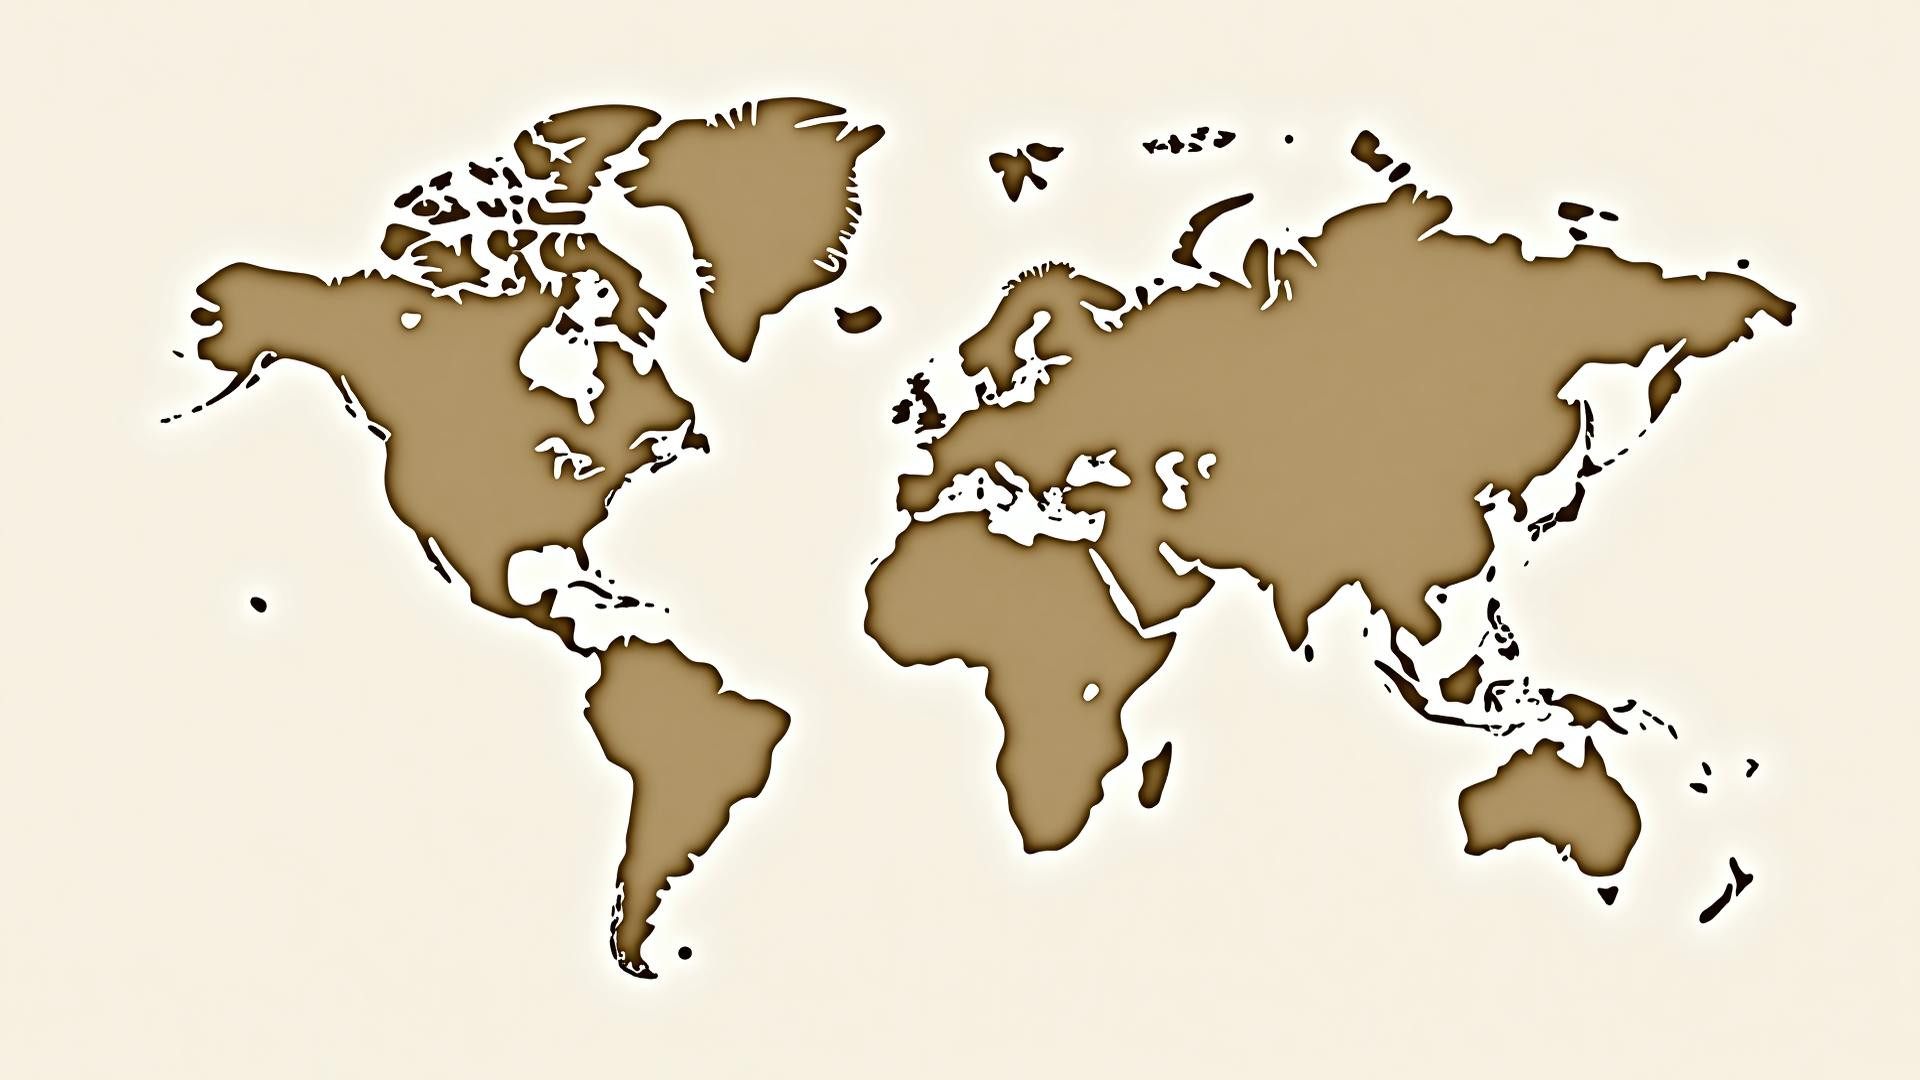
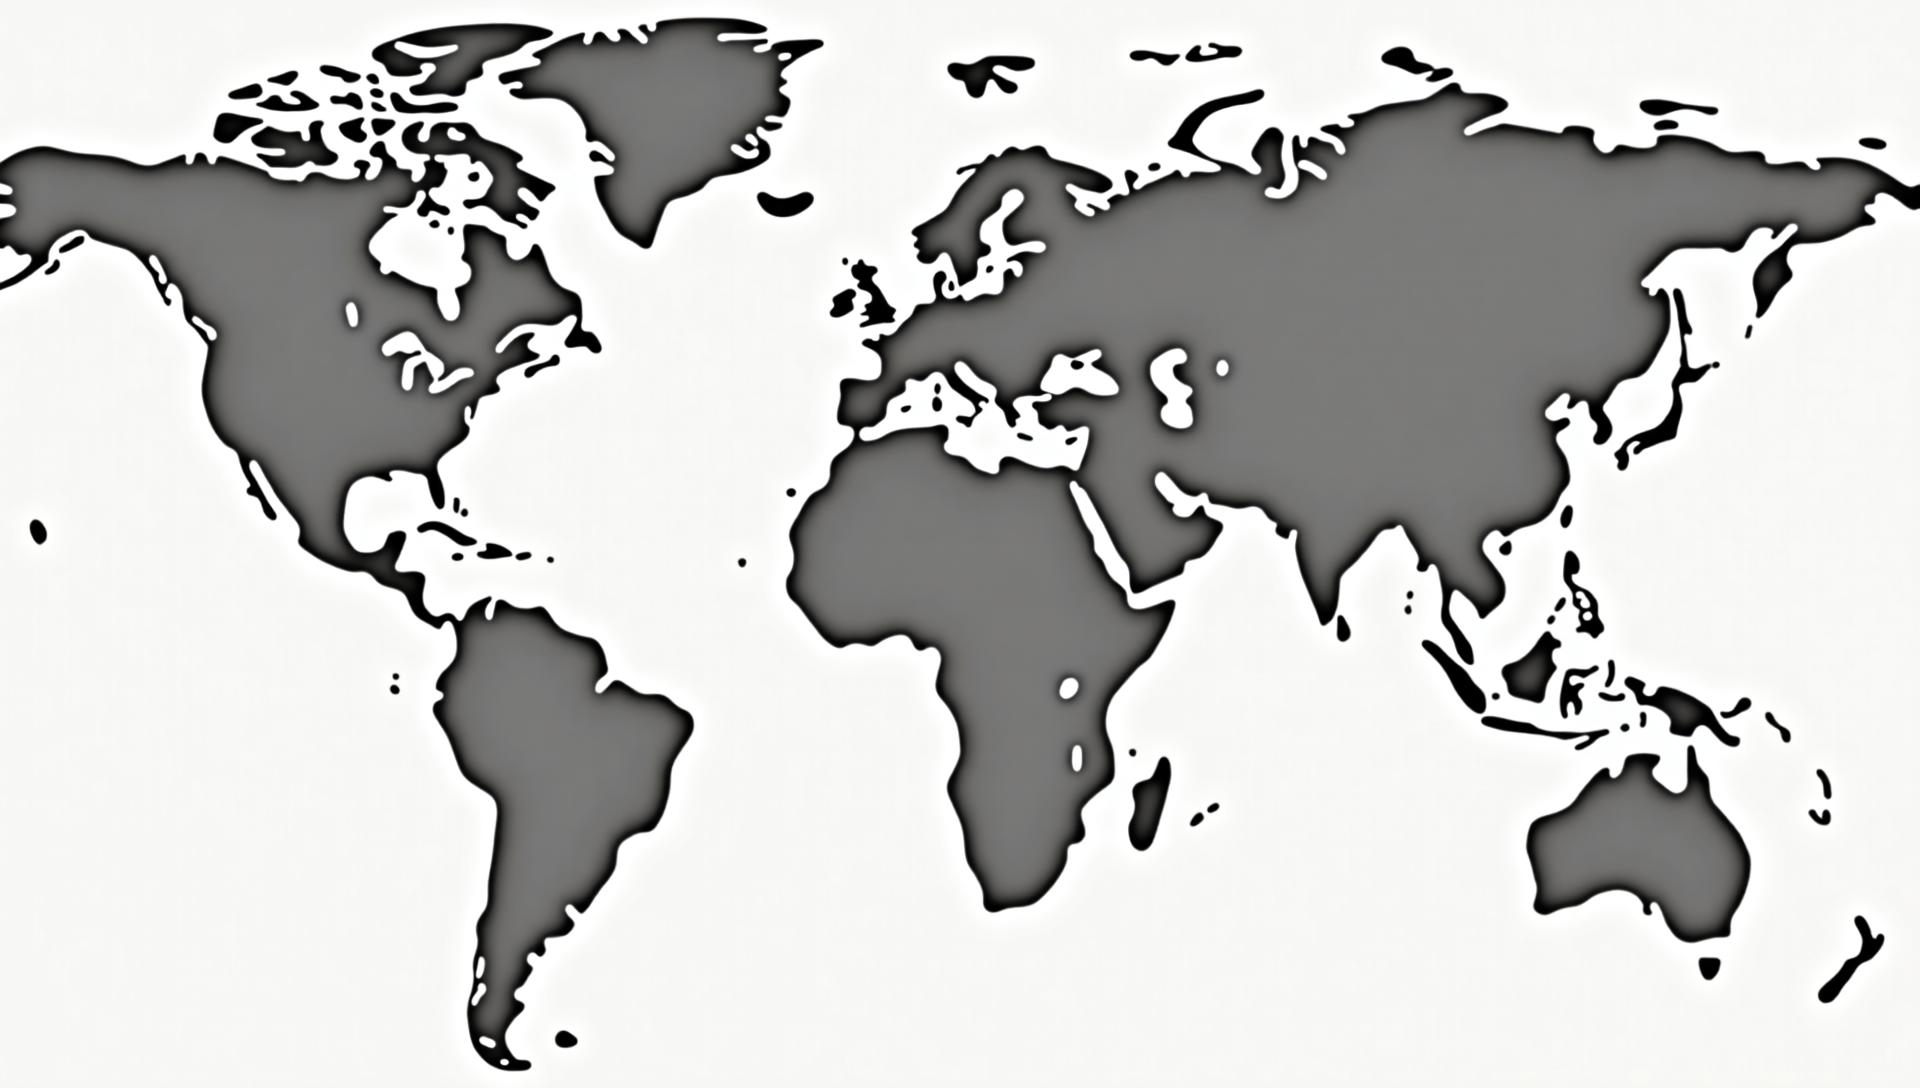
Refactor: Update world map styling

diff --git a/src/components/WorldMapWithPins.tsx b/src/components/WorldMapWithPins.tsx
@@ -87,7 +87,7 @@ const WorldMapWithPins = () => {
           <img 
             src={worldMap} 
             alt="World Map" 
-            className="w-full h-auto opacity-80"
+            className="w-full h-auto"
           />
           
           {countries.map((country) => (
